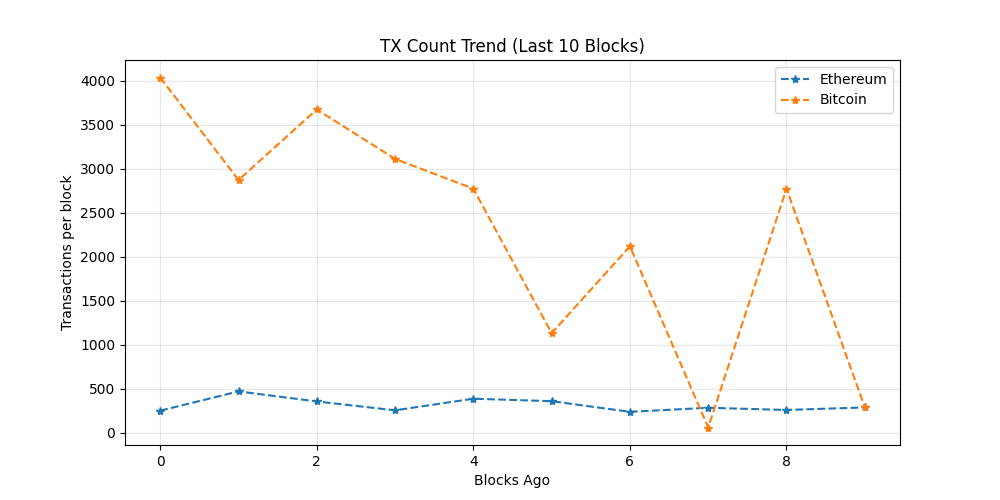
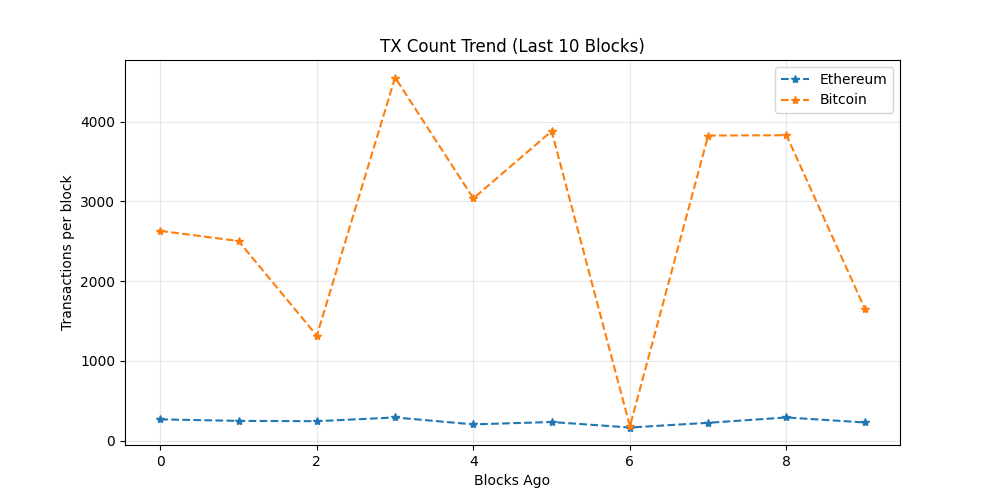
chore: update on-chain dashboard

diff --git a/README.md b/README.md
@@ -19,7 +19,7 @@ The README itself acts as the dashboard and is regenerated automatically on a 6 
 demonstrating a production-style, infrastructure-focused observability workflow rather
 than a traditional UI-driven approach.
 
-_Last updated: 2026-01-11 18:44 UTC_
+_Last updated: 2026-01-12 02:34 UTC_
 
 ## API Usage (GetBlock.io)
 - Calls used: **24**
@@ -27,8 +27,8 @@ _Last updated: 2026-01-11 18:44 UTC_
 ## Network Metrics
 | Chain | Block Height | TX Count | TPS (10 blk avg) | Block Util | Avg Fee |
 |------|-------------|----------|------------------|------------|---------|
-| Ethereum | 24213344 | 288 | 24.0 | 85.78% | 0.0 Gwei |
-| Bitcoin | 931874 | 291 | 8.08 | 99.8% | N/A |
+| Ethereum | 24215679 | 227 | 18.92 | 36.22% | 0.0 Gwei |
+| Bitcoin | 931917 | 1656 | 5.14 | 99.79% | N/A |
 
 ## Visuals
 ### Transactions Trend
